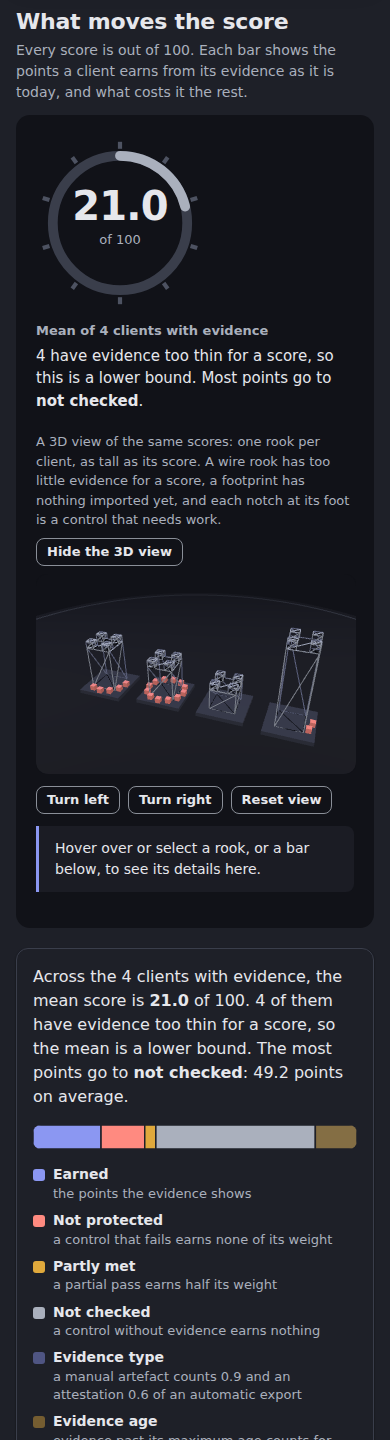
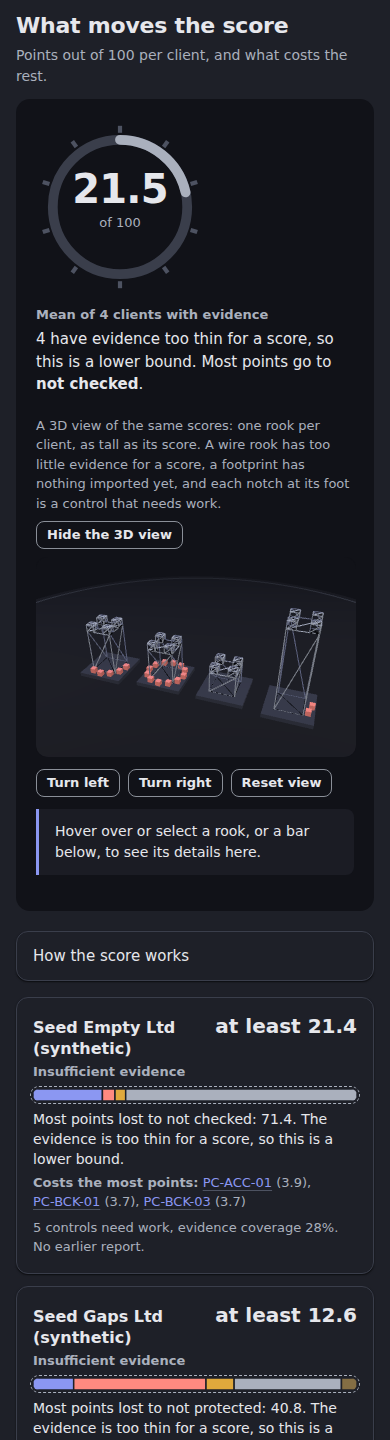
docs: capture again the 26 pictures of Home, the clients list and the checklist
Pull request #98 changed these pages, so their guide pictures no longer
showed the interface. The 26 pictures were captured again from Development
(commit 38da74b, build 38da74b76d0d on the System page) with the same
browser tools and administrator test account as the set of 2026-11-11.
The scene pictures of Home are now scrolled to What moves the score, which
no longer sits at the top of the page.

MANIFEST.json gives each one its new sha256, size, capture time and
candidate, keeps the old sha256 under replaces, and lists them under
recapture. Four captions, docs/images/README.md and the changelog follow.

Changed region(s): [[0.0615, 0.6562, 0.9231, 1.0], [0.0308, 0.0, 0.8923, 0.5], [0.0923, 0.4062, 0.8615, 0.625]]

diff --git a/docs/images/README.md b/docs/images/README.md
@@ -8,6 +8,21 @@ none holds a credential, a real person, a real customer or another environment.
 
 ## The current set
 
+On 2026-11-12, 26 of these pictures were captured again, because pull request #98
+changed the pages they show: Home now has Needs attention and Score over time under the
+stat cards and folds the mean score into **How the score works**, the clients list shows
+the bands as chips, and the checklist no longer repeats the status or shows an empty
+Owner column. They are every picture of Home, the clients list and the checklist (with
+the control drawer over it), taken between 08:40 and 08:44 UTC in two browser sessions
+(the second only retook the rook chosen with the keyboard) with the same browser tools and the same administrator test account, on commit
+`38da74b76d0daeef035921cbfa3f5f784d0b3224` (image
+`ghcr.io/theriark/revrook-ce@sha256:96fcfb92a4e1298a1848b5a9cafa1c6cc85f4a4992bf2b0a62d653c8cf27ea13`,
+CI run 43135573327; the System page showed `build 38da74b76d0d`). The scene pictures of
+Home are now scrolled to What moves the score, which no longer sits at the top of the
+page. In `MANIFEST.json` each of them carries `candidate` and, under `replaces`, the
+SHA-256 of the 2026-11-11 picture; `recapture` lists them. The other 36 pictures are the
+set of 2026-11-11 described below.
+
 The set holds 62 pictures, all captured on 2026-11-11 between 20:28 and 20:49
 Europe/Lisbon (UTC+00:00, so the same as UTC) in one browser session, while the
 Development site ran the application build documented and captured below: the merge

diff --git a/CHANGELOG.md b/CHANGELOG.md
@@ -16,6 +16,7 @@ No version has been released: there is no stable tag, no stable GitHub release a
 
 ### Changed
 
+- The 26 guide pictures of Home, the clients list and the checklist were captured again on 2026-11-12 from Development (commit `38da74b`), so they show the shorter pages ([docs/images/README.md](docs/images/README.md)).
 - Shorter pages. Home puts **Needs attention** (now the five most urgent, with a link to the rest) and the score over time right under the stat cards, folds the mean score and the colour key into **How the score works**, and its notes say less. The clients list shows the bands as chips beside the filters instead of a chart card above the table. The checklist drops the Owner column until a topic owner is set, and its last column, **Also needs a look**, no longer repeats the status.
 - The rook mark of the brand lockup (rail, sign-in panel, signed-out header) no longer sits in a cream tile: it shows on the rail or panel itself, with a thin cream edge so the black head stays visible on a dark ground. The favicons were already transparent.
 - Faster CI: pytest runs as four parallel shards (`TEST_SHARD`), a `coverage` job combines their data and keeps both thresholds, and the docker build and compose smoke test start alongside the checks instead of after them. The gate and the Development deployment still wait for every check ([docs/ci-cd.md](docs/ci-cd.md)).

diff --git a/docs/guides/02-clients-and-home.md b/docs/guides/02-clients-and-home.md
@@ -60,7 +60,7 @@ Every score is out of a hundred. The score drivers split those hundred points of
 client into what it earns and what costs it the rest, with the arithmetic of the
 scoring engine, so the parts add up to a hundred exactly and nothing is estimated.
 
-![What moves the score at 1440 px, light theme](../images/home-1440-drivers.png)
+![How the score works opened, over the score drivers, at 1440 px, light theme](../images/home-1440-drivers.png)
 
 1. **The summary** gives the mean score over the clients with evidence and names the
    driver that costs the most points on average. When it counts a client whose evidence
@@ -79,7 +79,7 @@ scoring engine, so the parts add up to a hundred exactly and nothing is estimate
    score; a client without evidence has no bar and a link to import its exports.
 4. **Show the numbers** holds every point of every client in a table.
 
-![What moves the score at 1440 px, dark theme](../images/home-1440-drivers-dark.png)
+![How the score works opened, over the score drivers, at 1440 px, dark theme](../images/home-1440-drivers-dark.png)
 
 ## Score over time with few reports
 

diff --git a/README.md b/README.md
@@ -45,7 +45,7 @@ one rook per client as tall as its score. The 3D view opens hidden and is drawn 
 ([guide 2](docs/guides/02-clients-and-home.md),
 [guide 8](docs/guides/08-scenes-rail-and-explorer.md)).
 
-![Home with the keep, the ledger, the gauge and the rookery skyline at 1440 px, dark theme](docs/images/home-1440-dark.png)
+![What moves the score on Home, the gauge beside the rookery skyline, at 1440 px, dark theme](docs/images/home-1440-dark.png)
 
 **Import evidence**: every export of a client dropped on one page, each file recognised
 by its columns and stored on its own, so a refused file stops none of the others

diff --git a/docs/guides/08-scenes-rail-and-explorer.md b/docs/guides/08-scenes-rail-and-explorer.md
@@ -90,7 +90,7 @@ and the cards and the bars stay where they were. The choice is kept in this brow
 only (another browser, or another person, still opens on the cards), and it holds for
 Home, the client overview and the Evidence Explorer together.
 
-![Home as it opens, the scenes hidden, at 1440 px, dark theme](../images/home-1440-scenes-hidden-dark.png)
+![What moves the score as Home opens, the 3D view hidden, at 1440 px, dark theme](../images/home-1440-scenes-hidden-dark.png)
 
 ## Fold the rail
 
